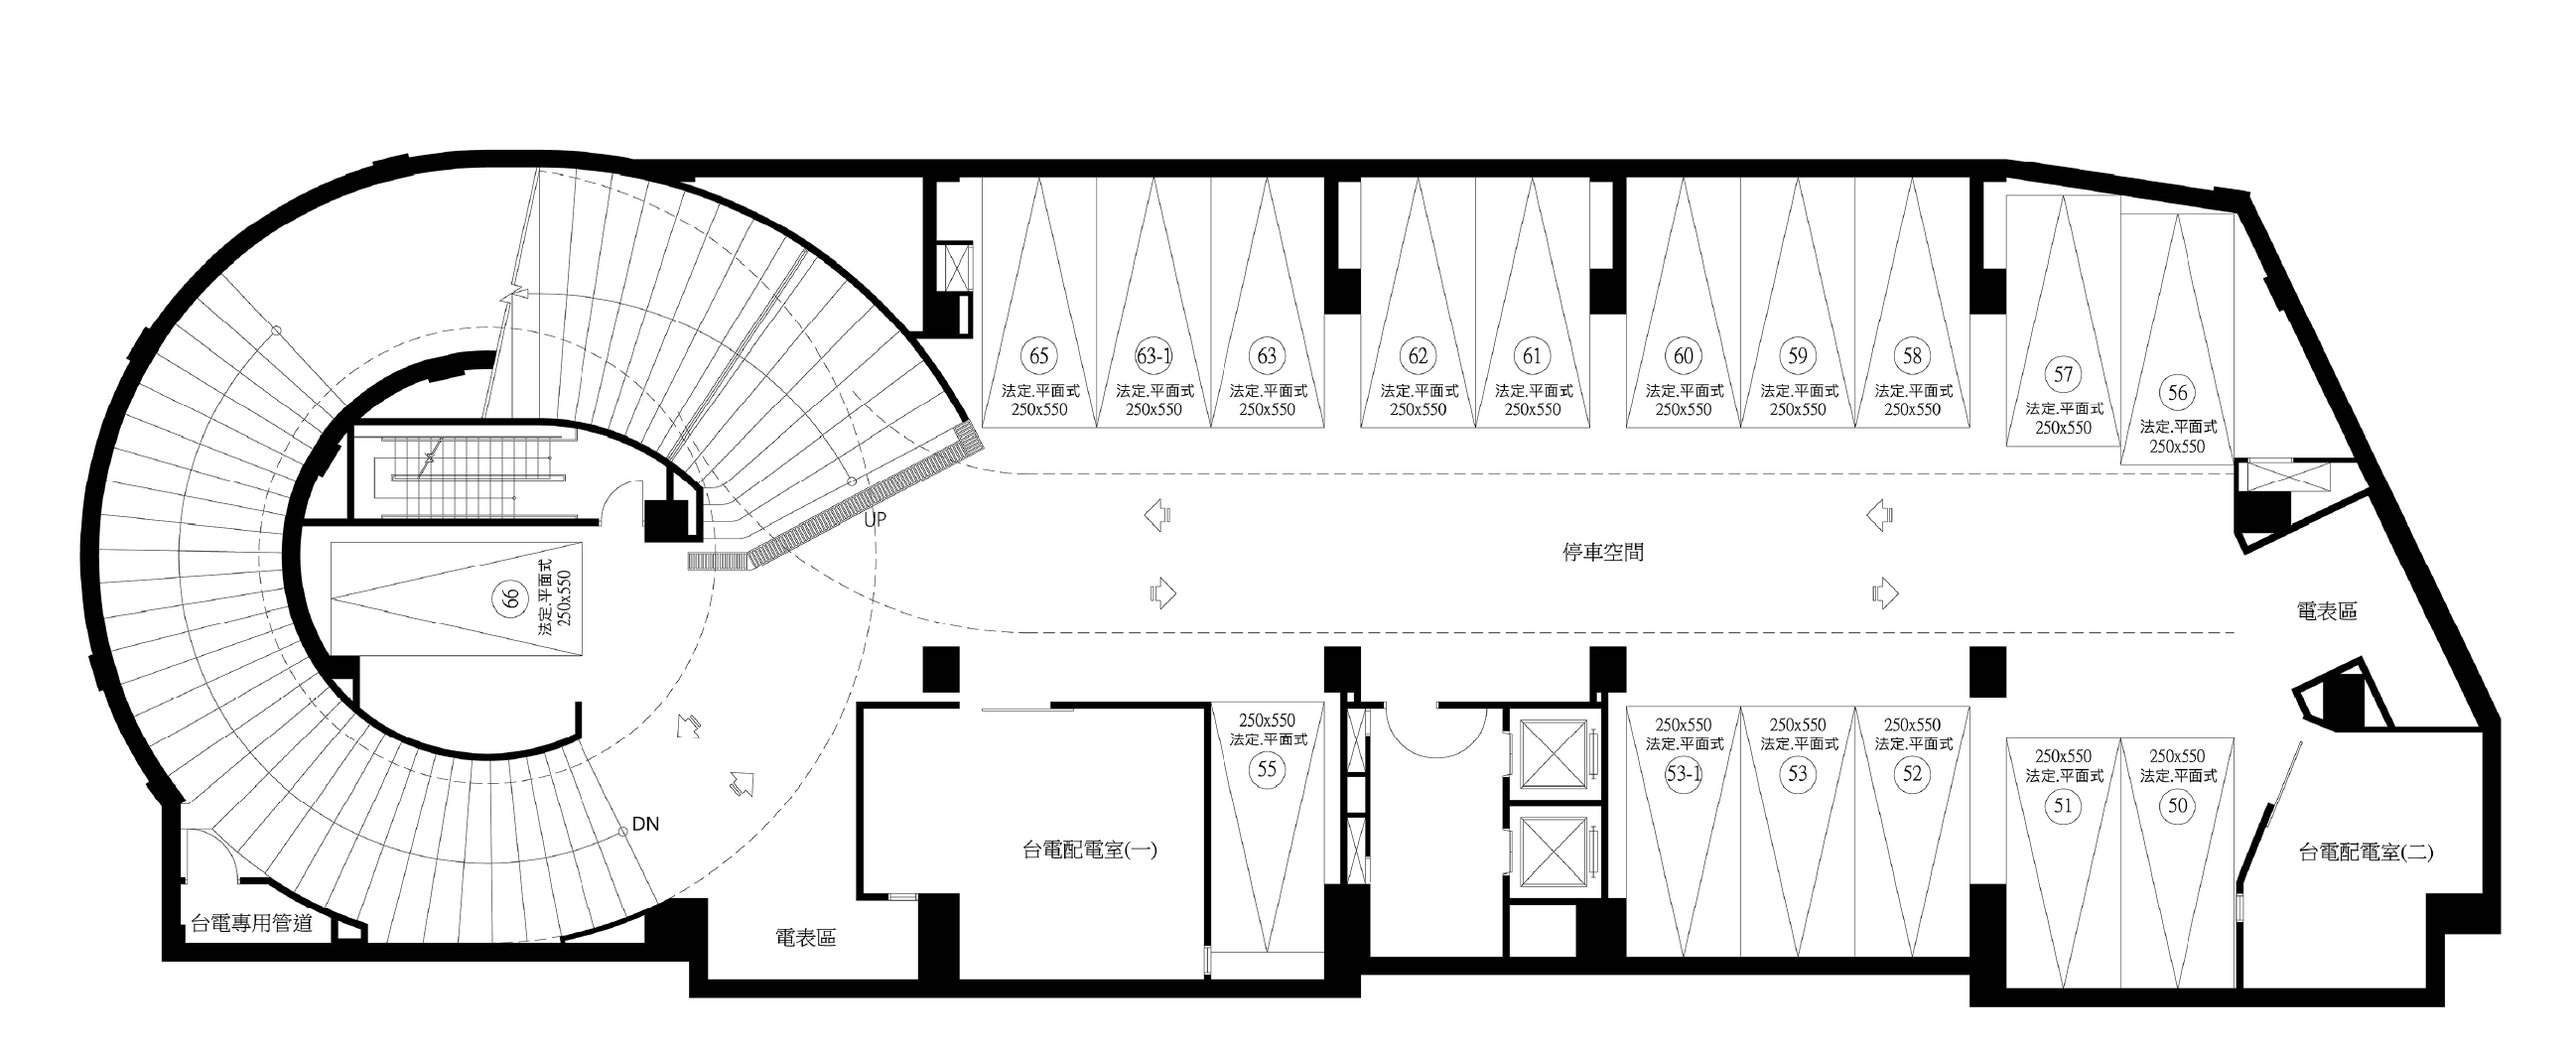
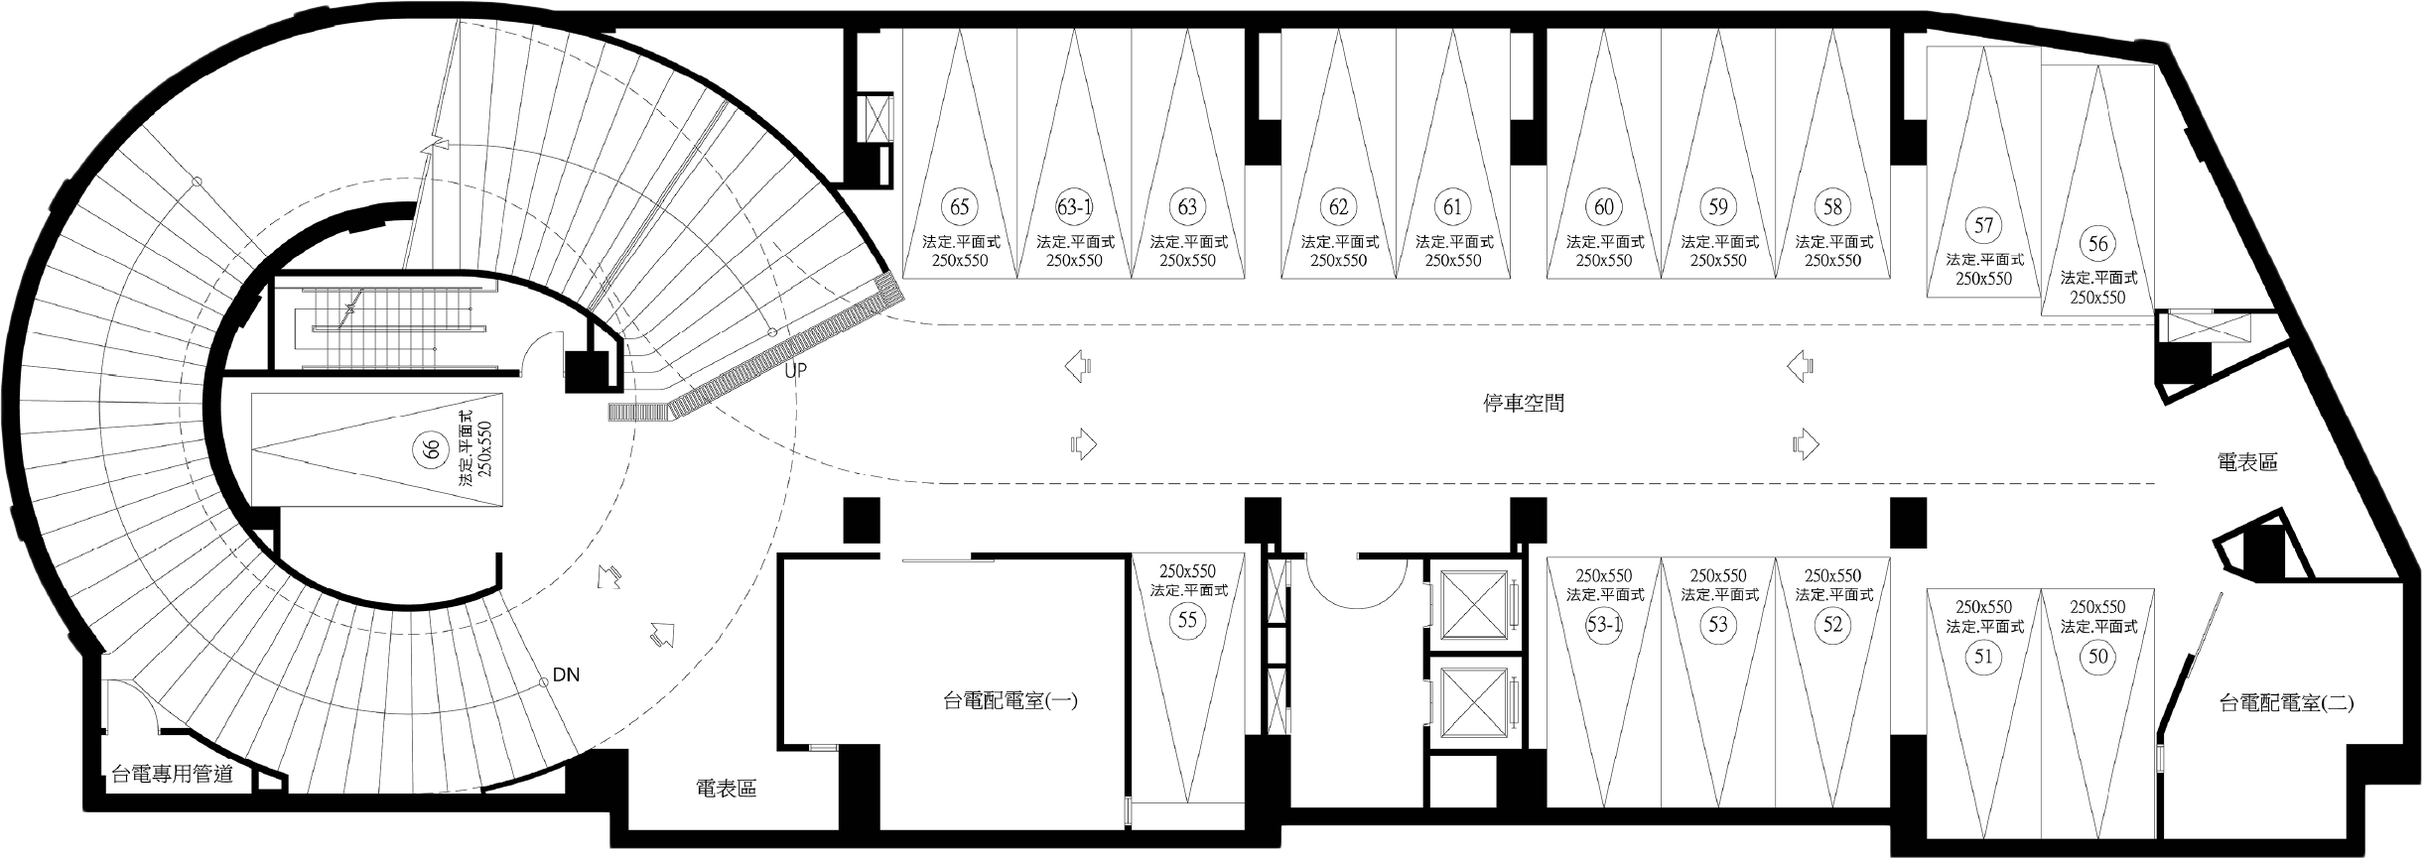
20240821 規劃修改
* 1 樓全區平面下面的文字拿掉
* 地下室 B1-B3 墨線尺寸及位置統一
* 標準層改色塊顏色

diff --git a/src/components/icons/FloorPlanBackground.vue b/src/components/icons/FloorPlanBackground.vue
@@ -28,29 +28,24 @@ watch(() => props.currentHoverIndex, (newValue, oldValue) => {
 </script>
 
 <template>
-    <svg xmlns="http://www.w3.org/2000/svg" viewBox="0 0 2806.81 1051.74">
-        <g id="圖層_2" data-name="圖層 2">
-            <g id="圖層_1-2" data-name="圖層 1">
-                <!-- A -->
-                <polygon :class="getRoomCssClasses(1)"
-                    points="520 125.25 313.6 125.25 313.6 253.1 184.3 253.27 140.8 253.1 136.5 253.27 136.5 382.56 46.56 382.56 46.56 408.33 35.28 410.05 35.28 532.76 8.85 532.76 8.85 564.16 0 564.16 0.21 985.01 54.65 985.01 55.66 996.46 56.16 1051.72 532.12 1051.72 532.12 540.21 532.12 126.9" />
-                <!-- B -->
-                <polygon :class="getRoomCssClasses(2)"
-                    points="518.99 459.87 1225.34 459.87 1226.68 56.68 1152.85 56.76 1152.85 21.48 1060.97 21.48 1060.97 0.08 870 0.08 870 56.8 518.99 53.26 518.99 459.87" />
-                <!-- C -->
-                <polygon :class="getRoomCssClasses(3)"
-                    points="1504.73 21.48 1504.73 459.87 2220.55 459.87 2220.55 378.02 2268.97 376.88 2270.25 80.93 2147.73 80.93 2147.73 21.31 2080.39 21.31 2080.39 0.08 1882.05 0.08 1882.05 25.87 1745.65 25.87 1745.65 0 1550.72 0 1550.72 21.48 1504.73 21.48" />
-                <!-- D -->
-                <polygon :class="getRoomCssClasses(4)"
-                    points="2059.79 459.87 2059.79 605.87 2148.46 605.87 2148.46 1051.74 2804.42 1051.63 2806.81 886.23 2775.68 821.58 2699.83 822.52 2699.83 649.07 2647.53 648.59 2647.53 591.74 2624.8 591.74 2624.8 526.94 2508.84 525.81 2508.84 367.05 2270.25 367.05 2270.25 376.88 2220.55 378.02 2220.55 459.87 2059.79 459.87" />
-                <!-- E -->
-                <polygon :class="getRoomCssClasses(5)"
-                    points="1225.34 603.38 1243.54 603.42 2148.46 605.87 2148.46 1051.74 1483.28 1051.74 1483.28 1005.21 1213.98 1005.21 1225.34 603.38" />
-                <!-- F -->
-                <polygon :class="getRoomCssClasses(6)"
-                    points="532.69 603.38 1225.91 603.38 1225.91 813.64 1162.25 813.64 1160.73 864.59 1151.64 864.59 1153.22 1051.72 718.12 1051.72 532.69 1051.72 532.69 603.38" />
-            </g>
-        </g>
+    <svg id="圖層_2" data-name="圖層 2" xmlns="http://www.w3.org/2000/svg" viewBox="0 0 3364.72 1730.39">
+        <!-- A -->
+        <polygon :class="getRoomCssClasses(1)" points="758.81 366.71 554.56 366.71 554.56 494.13 426.61 494.3 383.56 494.13 379.31 494.3 379.31 623.16 290.31 623.16 290.31 648.84 279.14 650.56 279.14 772.86 252.98 772.86 252.98 804.15 244.23 804.15 244.43 1223.59 298.31 1223.59 299.31 1235 299.81 1290.07 770.81 1290.07 770.81 780.27 770.81 368.36" />
+        
+        <!-- B -->
+        <polygon :class="getRoomCssClasses(2)" points="773.11 695.71 1468.1 695.71 1469.42 299 1396.77 299.08 1396.77 264.37 1306.37 264.37 1306.37 243.31 1118.48 243.31 1118.48 299.12 773.11 295.64 773.11 695.71" /> -->
+        
+        <!-- C -->
+        <polygon :class="getRoomCssClasses(3)" points="1747.47 261.01 1747.47 699.4 2463.28 699.4 2463.28 617.55 2511.7 616.41 2512.99 320.46 2390.46 320.46 2390.46 260.85 2323.13 260.85 2323.13 239.62 2124.78 239.62 2124.78 265.4 1988.38 265.4 1988.38 239.53 1793.46 239.53 1793.46 261.01 1747.47 261.01" />
+        
+        <!-- D -->
+        <polygon :class="getRoomCssClasses(4)" points="2302.52 699.4 2302.52 845.4 2391.2 845.4 2391.2 1291.27 3047.15 1291.16 3049.54 1125.76 3018.42 1061.11 2942.56 1062.06 2942.56 888.61 2890.27 888.12 2890.27 831.28 2867.53 831.28 2867.53 766.48 2751.57 765.34 2751.57 606.58 2512.99 606.58 2512.99 616.41 2463.28 617.55 2463.28 699.4 2302.52 699.4" />
+        
+        <!-- E -->
+        <polygon :class="getRoomCssClasses(5)" points="1767.84 851 2384.77 851 2384.77 1281.48 1773.91 1281.48 1767.84 851" />
+    
+        <!-- F -->
+        <polygon :class="getRoomCssClasses(6)" points="773.11 844.3 1462.02 844.3 1462.02 1053.26 1398.75 1053.26 1397.24 1103.89 1388.2 1103.89 1389.78 1289.86 957.38 1289.86 773.11 1289.86 773.11 844.3" />
     </svg>
 </template>
 

diff --git a/src/layouts/FloorPlanWrapper.vue b/src/layouts/FloorPlanWrapper.vue
@@ -118,13 +118,13 @@ function hoverRoom(index: number) {
             <div v-if="isFloor == true && hasBg == true" class="w-4/5 relative">
                 <!-- 標準層平面圖背景 -->
                 <FloorPlanBackground class="w-full absolute inset-0" :current-hover-index="currentHoverType" style="padding-right: 5px;"></FloorPlanBackground>
-                <img :src="imageUrl" alt="Image" class="object-cover relative z-10" style="transform: scale(1.023); translate: 12px -8px;"/>
+                <img :src="imageUrl" alt="Image" class="object-cover relative z-10" style="scale: 0.99; translate: -1px -1px;"/>
             </div>
             <div v-else-if="isFloor == false && isAera == true" class="w-full h-full flex justify-start items-center" style="padding-left: 8rem;">
                 <!-- 標準層的每一個獨立房型 -->
                 <img :src="imageUrl" alt="Image" class="object-cover" style="width: 75%;" />
             </div>
-            <div v-else-if="isFloor == true && isBasement == true" class="w-4/6 flex justify-center items-center">
+            <div v-else-if="isFloor == true && isBasement == true" class="w-5/6 flex justify-center items-center">
                 <!-- 地下室 -->
                 <img :src="imageUrl" alt="Image" class="object-cover mt-24" />
             </div>
@@ -287,45 +287,45 @@ function hoverRoom(index: number) {
 
 
 .a-part {
-    width: 15%;
-    height: 40%;
-    top: 32%;
-    left: 10%;
+    width: 12.5%;
+    height: 31.5%;
+    top: 33%;
+    left: 15.8%;
 }
 
 .b-part {
-    width: 19%;
-    height: 19%;
-    top: 29%;
-    left: 25%;
+    width: 16.7%;
+    height: 15.8%;
+    top: 28.5%;
+    left: 28.2%;
 }
 
 .c-part {
-    width: 19.5%;
-    height: 18%;
-    top: 30%;
-    left: 51.8%;
+    width: 16.7%;
+    height: 15.8%;
+    top: 28.5%;
+    left: 51.4%;
 }
 
 .d-part {
-    width: 19.5%;
-    height: 28%;
-    top: 44%;
-    left: 70.8%;
+    width: 15.5%;
+    height: 20%;
+    top: 44.1%;
+    left: 66.6%;
 }
 
 .e-part {
-    width: 25.9%;
-    height: 19%;
-    top: 53%;
-    left: 44%;
+    width: 14.7%;
+    height: 15.1%;
+    top: 49.2%;
+    left: 51.8%;
 }
 
 .f-part {
-    width: 19%;
-    height: 19%;
-    top: 53%;
-    left: 25%;
+    width: 16.6%;
+    height: 15.1%;
+    top: 49.2%;
+    left: 28.2%;
 }
 
 </style>

diff --git a/src/views/Structure/StandardView.vue b/src/views/Structure/StandardView.vue
@@ -1,6 +1,6 @@
 <script setup lang="ts">
 import FloorPlanWrapper from '@/layouts/FloorPlanWrapper.vue';
-const mainImage = new URL('@/assets/images/floorplans/standard_foreground.png', import.meta.url).href;
+const mainImage = new URL('@/assets/images/floorplans/standard_foreground.svg', import.meta.url).href;
 </script>
 
 <template>
